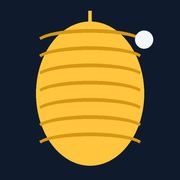
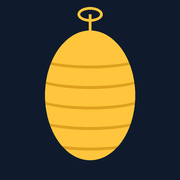
Ícone do Casulo Play mais limpo
Claude-Session: https://claude.ai/code/session_01UhsnjRY4hwCejsuHBtrKzE

Changed region(s): [[0.1944, 0.0278, 0.8611, 0.9444], [0.3889, 0.3333, 0.6111, 0.3889]]

diff --git a/index.html b/index.html
@@ -11,7 +11,7 @@
 <meta name="apple-mobile-web-app-title" content="Casulo Play">
 <meta name="apple-mobile-web-app-status-bar-style" content="black">
 <meta name="theme-color" content="#0b1422">
-<meta name="mt-build" content="20261127122151">
+<meta name="mt-build" content="20261127122200">
 <link rel="preconnect" href="https://fonts.googleapis.com">
 <link rel="stylesheet" href="https://cdn.jsdelivr.net/npm/@tabler/icons-webfont@3.19.0/dist/tabler-icons.min.css">
 <link href="https://fonts.googleapis.com/css2?family=Nunito:wght@500;700;900&display=swap" rel="stylesheet">
